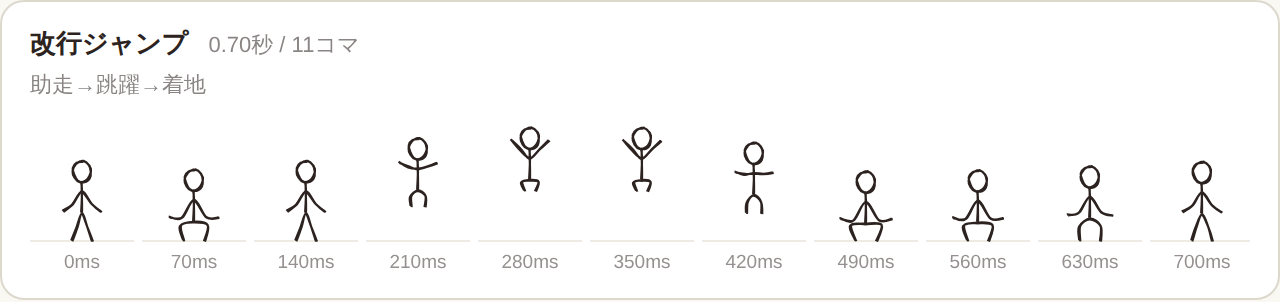
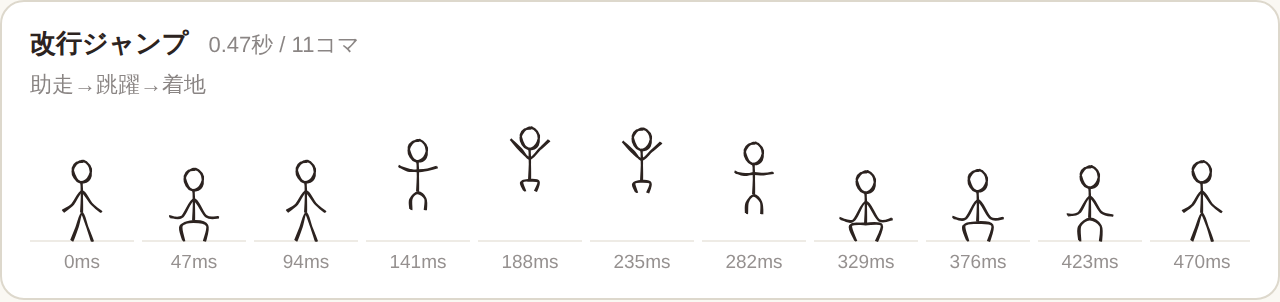
改行ジャンプを1.5倍速に(合計0.7秒→約0.47秒)
普通のエディタの感覚だと着地までが長く感じたため。助走・跳躍・着地をそれぞれ
1.5で割り、次の行へ移動するアニメーションも跳躍の長さ(JUMP_DURATION)に揃えた。

Claude-Session: https://claude.ai/code/session_01HG8sCsKqCo4Dxu5mMbs57H

diff --git a/src/pose.ts b/src/pose.ts
@@ -20,9 +20,10 @@ const SWING_PERIOD_MS = 1800; // 長い待機(煽り)で左右に体重移動す
 const TAUNT_SPEED = 0.08; // 通常の立ち姿⇔煽りポーズ(腕を真横・広いスタンス)の切り替え速度
 const GIVE_UP_MS = 5 * 60 * 1000; // 5分煽ったら諦めて座る
 export const TYPE_HOLD_MS = 300; // 最後の入力・移動からこの間は「打っている(歩き)」
-const ANTICIPATE_DURATION = 130;
-const JUMP_DURATION = 350;
-const BRACE_DURATION = 220;
+// 改行ジャンプ: 助走→跳躍→着地(合計約0.47秒)。普通のエディタの感覚で待たされないよう、当初の0.7秒から1.5倍速にした
+const ANTICIPATE_DURATION = 87;
+export const JUMP_DURATION = 233; // editor.tsで次の行へ移動するアニメーションもこの長さに揃える
+const BRACE_DURATION = 147;
 const WALK_CYCLE_MS = 560; // 歩行の1周期(左右1歩ずつ)。常に一定で、進む速さは移動そのものの速さで表現する
 const THROW_DURATION_BASE = 380; // 溜め→振り抜き→余韻→戻り、の一連を見せられる長さ
 const THROW_DURATION_MAX = 650;

diff --git a/src/editor.ts b/src/editor.ts
@@ -1,4 +1,4 @@
-import { StickmanState, HOP_DURATION } from './pose';
+import { StickmanState, HOP_DURATION, JUMP_DURATION } from './pose';
 import { StickmanRenderer, type RendererElements } from './render';
 import type { Pose } from './types';
 import { delay } from './utils';
@@ -365,7 +365,7 @@ export class CaretmanEditor {
     this.lastCaretX = x;
 
     // ジャンプ/ホップでの移動はふわっと、通常の移動は素早く
-    const posDuration = moveKind === 'jump' ? 350 : isHop ? HOP_DURATION : 90;
+    const posDuration = moveKind === 'jump' ? JUMP_DURATION : isHop ? HOP_DURATION : 90;
     const posEasing = moveKind === 'jump' || isHop ? 'ease-out' : 'linear';
     this.figure.style.transition = `left ${posDuration}ms ${posEasing}, top ${posDuration}ms ${posEasing}, width 120ms ease, height 120ms ease, opacity 150ms ease`;
 

diff --git a/src/motionReview/filmstrips.ts b/src/motionReview/filmstrips.ts
@@ -26,7 +26,7 @@ const SPECS: Record<DemoState, StripSpec> = {
   walk: { start: 0, duration: 560, frames: 9, caption: '1周期=左右1歩ずつ(左へ移動する時は左右反転)' },
   longIdle: { start: 2000, duration: 1800, frames: 9, caption: '1周期=左右に1往復' },
   givenUp: { start: 0, duration: 1500, frames: 7, caption: '立ち姿からあぐらへ' },
-  jump: { start: 0, duration: 700, frames: 11, caption: '助走→跳躍→着地' },
+  jump: { start: 0, duration: 470, frames: 11, caption: '助走→跳躍→着地' },
   throw: { start: 0, duration: 380, frames: 11, caption: '溜め→振り抜き→余韻→戻り' },
   hop: { start: 0, duration: 240, frames: 9, caption: '右へ移動する場合(左へは左右反転)' },
   composing: { start: 0, duration: 0, frames: 1, caption: '実際は半透明で表示' },

diff --git a/docs/spec.md b/docs/spec.md
@@ -77,7 +77,7 @@ rough.jsの暫定パラメータ値：
 
 | モーション | きっかけ | 動き | 長さ |
 | --- | --- | --- | --- |
-| 改行ジャンプ | 行をまたぐ移動(Enter・行結合・矢印キー・クリックなど) | 助走→跳躍(脚を畳み、頂点で腕を振り上げる)→着地 | 約0.7秒 |
+| 改行ジャンプ | 行をまたぐ移動(Enter・行結合・矢印キー・クリックなど) | 助走→跳躍(脚を畳み、頂点で腕を振り上げる)→着地 | 約0.47秒 |
 | 放り投げ | 文字が減った(Backspace/Delete/Undo等) | 踏み込んで足元から掬い、画面右上へ全力で振り抜く | 0.38秒〜(消した量で最大0.65秒) |
 | 貼り付け | 貼り付け(書式は捨ててテキストのみ挿入) | 前傾して両腕を画面左へ突き出し、全力で押し込む | 0.22秒〜(貼った量で最大0.52秒) |
 | 選択ポーズ | 範囲選択している間 | 両腕をほぼ真上に伸ばす | 選択中ずっと |
@@ -95,7 +95,7 @@ rough.jsの暫定パラメータ値：
 - 大きさ: 文字の大きさ×1.35×1.1(フォントサイズに連動)
 - 縦位置: 足先を文字のベースラインに揃える
 - 横位置: 後ろに文字がある時はキャレットに詰め、行末では少し離れて立つ
-- 移動のアニメーション: 通常0.09秒 / ホップ0.24秒 / ジャンプ0.35秒
+- 移動のアニメーション: 通常0.09秒 / ホップ0.24秒 / ジャンプ0.23秒
 
 ## 未決定事項
 
